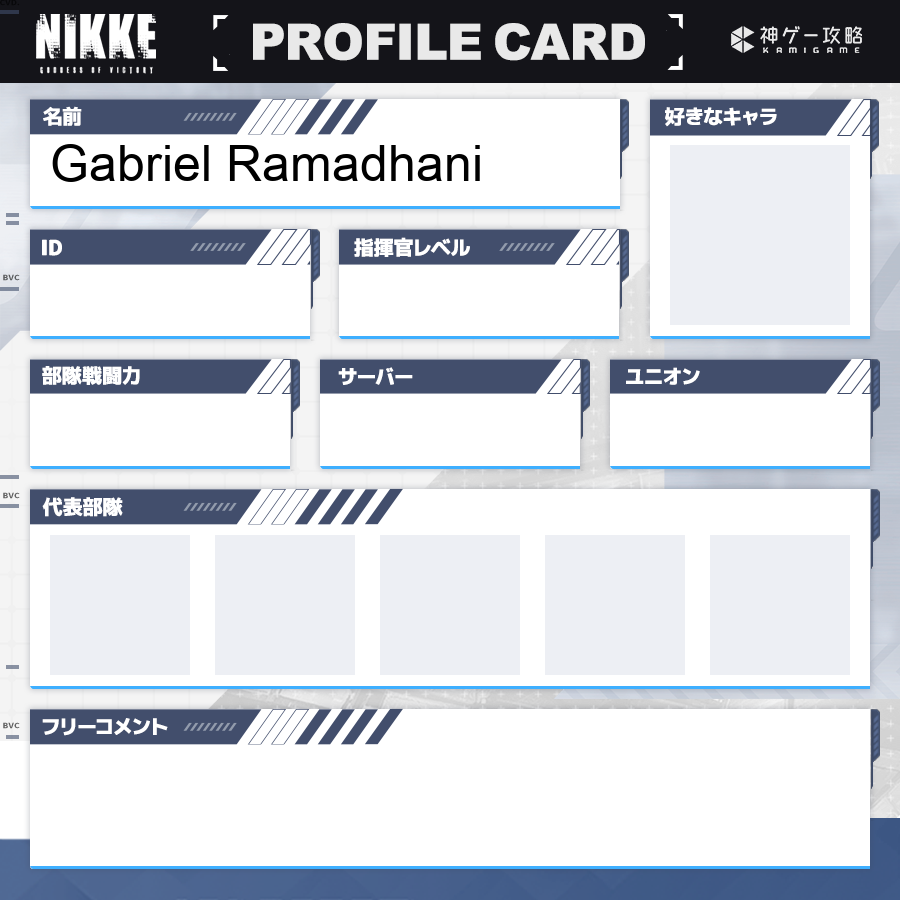
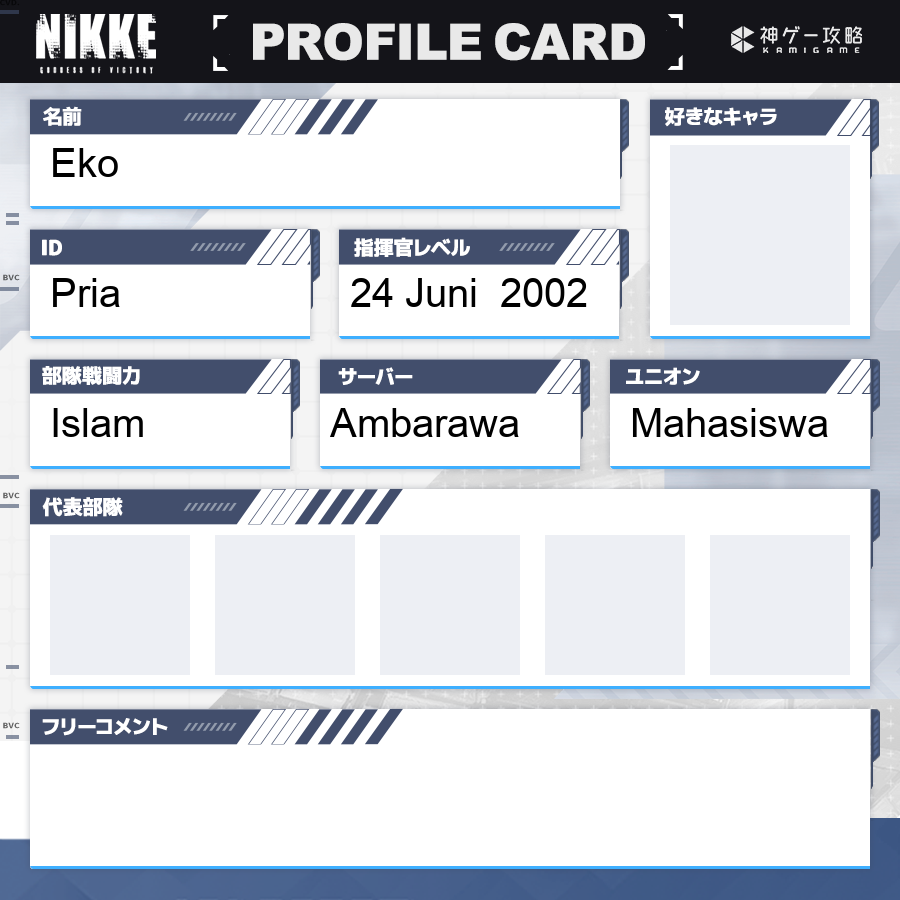
nyetak save cvs trying server

diff --git a/Interfacece.py b/Interfacece.py
@@ -1,22 +1,120 @@
 import tkinter
+from csv import *
 from tkinter import *
 from PIL import Image, ImageFont, ImageDraw 
+from tkinter import messagebox
 
-def click():
-    my_image = Image.open("tes.png")
-    title_font = ImageFont.truetype("arial.ttf",50)
-    title_text = "Gabriel Ramadhani"
-    image_editable = ImageDraw.Draw(my_image)
-    image_editable.text((50,140), title_text, (0, 0, 0), font=title_font)
-    my_image.show()
-    my_image.save("result.png")
-    
 tk = tkinter.Tk()
 tk.title("Data Base System")
-canvas=tkinter.Canvas(tk, width=300, height=300)
-canvas.pack()
-L1 = Label(tk, text="Nama")
-L1.pack(side = LEFT)
-button=tkinter.Button(tk, text='Enter', bg="Purple", fg="White", width=10, command=click)
-button.pack(side = BOTTOM)
+#canvas=tkinter.Canvas(tk, width=300, height=300)
+#canvas.grid()
+tk.geometry()
+tk.configure(bg='purple')
+data = []
+
+def cetak():
+    my_image = Image.open("tes.png")
+    #NAMA
+    nama = E1.get()
+    nama_font = ImageFont.truetype("arial.ttf",40)
+    nama_text = nama
+    image_editable = ImageDraw.Draw(my_image)
+    image_editable.text((50,140), nama_text, (0, 0, 0), font=nama_font)
+    #TTL
+    ttl = E2.get()
+    ttl_font = ImageFont.truetype("arial.ttf",40)
+    ttl_text = ttl
+    image_editable = ImageDraw.Draw(my_image)
+    image_editable.text((350,270), ttl_text, (0, 0, 0), font=ttl_font)
+    #KELAMIN
+    kelamin = E3.get()
+    kelamin_font = ImageFont.truetype("arial.ttf",40)
+    kelamin_text = kelamin
+    image_editable = ImageDraw.Draw(my_image)
+    image_editable.text((50,270), kelamin_text, (0, 0, 0), font=kelamin_font)
+    #AGAMA
+    agama = E4.get()
+    agama_font = ImageFont.truetype("arial.ttf",40)
+    agama_text = agama
+    image_editable = ImageDraw.Draw(my_image)
+    image_editable.text((50,400), agama_text, (0, 0, 0), font=agama_font)
+    #ALAMAT
+    alamat = E5.get()
+    alamat_font = ImageFont.truetype("arial.ttf",40)
+    alamat_text = alamat
+    image_editable = ImageDraw.Draw(my_image)
+    image_editable.text((330,400), alamat_text, (0, 0, 0), font=alamat_font)
+    #PEKERJAAN
+    job = E6.get()
+    job_font = ImageFont.truetype("arial.ttf",40)
+    job_text = job
+    image_editable = ImageDraw.Draw(my_image)
+    image_editable.text((630,400), job_text, (0, 0, 0), font=job_font)
+    my_image.show()
+    my_image.save("result.png")
+
+def add():
+    lst = [E1.get(),E2.get(),E3.get(),E4.get(),E5.get(),E6.get()]
+    data.append(lst)
+    messagebox.showinfo("Information","Data Telah Berhasil Ditambahkan")
+
+def save():
+    with open("data.csv","w") as file:
+        Writer=writer(file)
+        Writer.writerow(["Nama","TTL","Kelamin","Agama","Alamat","Pekerjaan"])
+        Writer.writerows(data)
+        messagebox.showinfo("Information","Saved succesfully")
+
+def delete():
+    E1.delete(0,END)
+    E2.delete(0,END)
+    E3.delete(0,END)
+    E4.delete(0,END)
+    E5.delete(0,END)
+    E6.delete(0,END)
+
+#NAMA
+L1 = Label(tk,bg='purple',fg='white',text="Nama")
+L1.grid(row = 0, column = 0, sticky = W, pady = 2)
+E1 = Entry(fg="white", bg="blue", width=25)
+E1.grid(row = 0, column = 1, pady = 2)
+#TTL
+L2 = Label(tk,bg='purple',fg='white', text="Tempat Tanggal Lahir")
+L2.grid(row = 1, column = 0, sticky = W, pady = 2)
+E2 = Entry(fg="white", bg="blue", width=25)
+E2.grid(row = 1, column = 1, pady = 2)
+#KELAMIN
+L3 = Label(tk,bg='purple',fg='white', text="Jenis Kelamin")
+L3.grid(row = 2, column = 0, sticky = W, pady = 2)
+E3 = Entry(fg="white", bg="blue", width=25)
+E3.grid(row = 2, column = 1, pady = 2)
+#AGAMA
+L4 = Label(tk,bg='purple',fg='white', text="Agama")
+L4.grid(row = 3, column = 0, sticky = W, pady = 2)
+E4 = Entry(fg="white", bg="blue", width=25)
+E4.grid(row = 3, column = 1, pady = 2)
+#ALAMAT
+L5 = Label(tk,bg='purple',fg='white', text="Alamat")
+L5.grid(row = 4, column = 0, sticky = W, pady = 2)
+E5 = Entry(fg="white", bg="blue", width=25)
+E5.grid(row = 4, column = 1, pady = 2)
+#PEKERJAAN
+L6 = Label(tk,bg='purple',fg='white', text="Pekerjaan")
+L6.grid(row = 5, column = 0, sticky = W, pady = 2)
+E6 = Entry(fg="white", bg="blue", width=25)
+E6.grid(row = 5, column = 1, pady = 2)
+#ADD
+button=tkinter.Button(tk, text='TAMBAHKAN DATA', bg="blue", fg="White", width=20, command=add)
+button.grid(row = 6, column = 1, sticky = W, pady = 2)
+#SAVE
+button=tkinter.Button(tk, text='SIMPAN DATA', bg="blue", fg="White", width=20, command=save)
+button.grid(row = 7, column = 1, sticky = W, pady = 2)
+#CETAK
+button=tkinter.Button(tk, text='CETAK KARTU', bg="blue", fg="White", width=20, command=cetak)
+button.grid(row = 8, column = 1, sticky = W, pady = 2)
+#EXIT
+button=tkinter.Button(tk, text='KELUAR', bg="blue", fg="White", width=20, command=tk.quit)
+button.grid(row = 9, column = 1, sticky = W, pady = 2)
 tk.mainloop()
+
+#NOTE GA EFEKTIF BISA PAKE LOOP DAN TIDAK PERLU STORE SETIAP GET ENTRY DAN FONT JUGA BISA BERSAMA

diff --git a/tes.py b/tes.py
@@ -1,8 +1,56 @@
+import tkinter
+import csv
+from tkinter import *
 from PIL import Image, ImageFont, ImageDraw 
 
-my_image = Image.open("tes.png")
-title_font = ImageFont.load_default()
-title_text = "Gabriel Ramadhani"
-image_editable = ImageDraw.Draw(my_image)
-image_editable.text((15,15), title_text, (237, 230, 211), font=title_font)
-my_image.save("result.png")
+def click():
+    nama = E1.get()
+    my_image = Image.open("tes.png")
+    title_font = ImageFont.truetype("arial.ttf",50)
+    title_text = nama
+    image_editable = ImageDraw.Draw(my_image)
+    image_editable.text((50,140), title_text, (0, 0, 0), font=title_font)
+    my_image.show()
+    my_image.save("result.png")
+
+tk = tkinter.Tk()
+tk.title("Data Base System")
+#canvas=tkinter.Canvas(tk, width=300, height=300)
+#canvas.grid()
+tk.geometry()
+tk.configure(bg='purple')
+#NAMA
+L1 = Label(tk,bg='purple',fg='white',text="Nama")
+L1.grid(row = 0, column = 0, sticky = W, pady = 2)
+E1 = Entry(fg="white", bg="blue", width=25)
+E1.grid(row = 0, column = 1, pady = 2)
+#TTL
+L2 = Label(tk,bg='purple',fg='white', text="Tempat Tanggal Lahir")
+L2.grid(row = 1, column = 0, sticky = W, pady = 2)
+E2 = Entry(fg="white", bg="blue", width=25)
+E2.grid(row = 1, column = 1, pady = 2)
+#KELAMIN
+L3 = Label(tk,bg='purple',fg='white', text="Jenis Kelamin")
+L3.grid(row = 2, column = 0, sticky = W, pady = 2)
+E3 = Entry(fg="white", bg="blue", width=25)
+E3.grid(row = 2, column = 1, pady = 2)
+#AGAMA
+L4 = Label(tk,bg='purple',fg='white', text="Agama")
+L4.grid(row = 3, column = 0, sticky = W, pady = 2)
+E4 = Entry(fg="white", bg="blue", width=25)
+E4.grid(row = 3, column = 1, pady = 2)
+#ALAMAT
+L5 = Label(tk,bg='purple',fg='white', text="Alamat")
+L5.grid(row = 4, column = 0, sticky = W, pady = 2)
+E5 = Entry(fg="white", bg="blue", width=25)
+E5.grid(row = 4, column = 1, pady = 2)
+#PEKERJAAN
+L6 = Label(tk,bg='purple',fg='white', text="Pekerjaan")
+L6.grid(row = 5, column = 0, sticky = W, pady = 2)
+E6 = Entry(fg="white", bg="blue", width=25)
+E6.grid(row = 5, column = 1, pady = 2)
+button=tkinter.Button(tk, text='Translate', bg="blue", fg="White", width=10, command=click)
+button.grid()
+tk.mainloop()
+
+#NOTE GA EFEKTIF BISA PAKE LOOP DAN TIDAK PERLU STORE SETIAP GET ENTRY DAN FONT JUGA BISA BERSAMA

diff --git a/server test.py b/server test.py
@@ -1,0 +1,18 @@
+import socket
+
+HOST = 'local ip'         
+PORT = 42050              
+s = socket.socket(socket.AF_INET, socket.SOCK_STREAM)
+s.bind((HOST, PORT))
+print ("Server running", HOST, PORT)
+s.listen(5)
+conn, addr = s.accept()
+print('Connected by', addr)
+
+while True:
+    data = "".join(iter(lambda:conn.recv(1),"\n"))       
+    print (data)   
+    if not data: break                
+      
+print ("Done Receiving")
+conn.close()

diff --git a/client test.py b/client test.py
@@ -1,0 +1,16 @@
+import socket
+
+HOST = 'server ip'        
+PORT = 42050              
+s = socket.socket(socket.AF_INET, socket.SOCK_STREAM)
+s.connect((HOST, PORT))
+f = open('my.csv', 'rb')
+print ("Sending Data ....")
+l = f.read()
+while True:      
+    for line in l:
+        s.send(line)    
+    break
+f.close()
+print ("Sending Complete")
+s.close()
